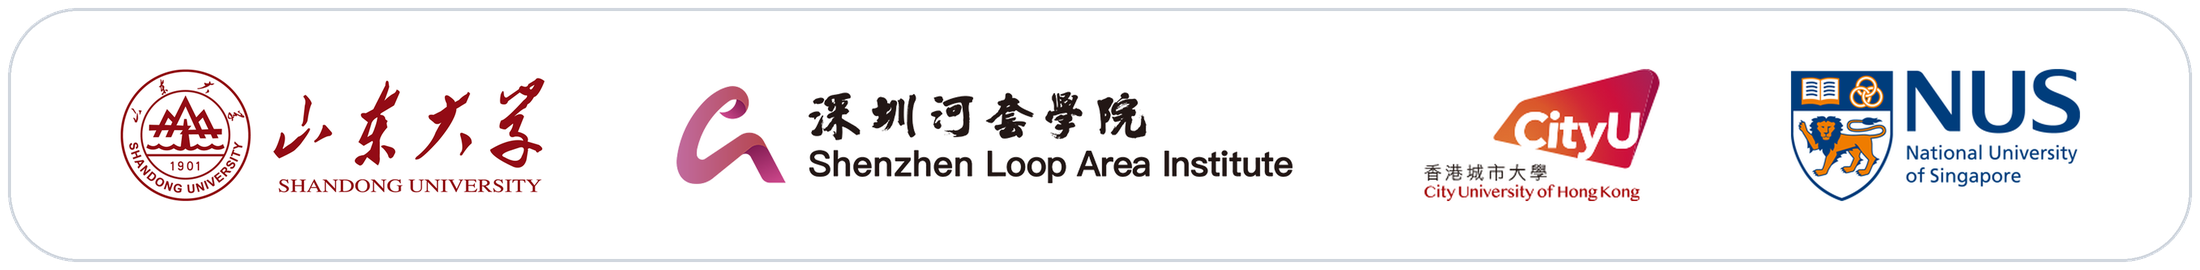
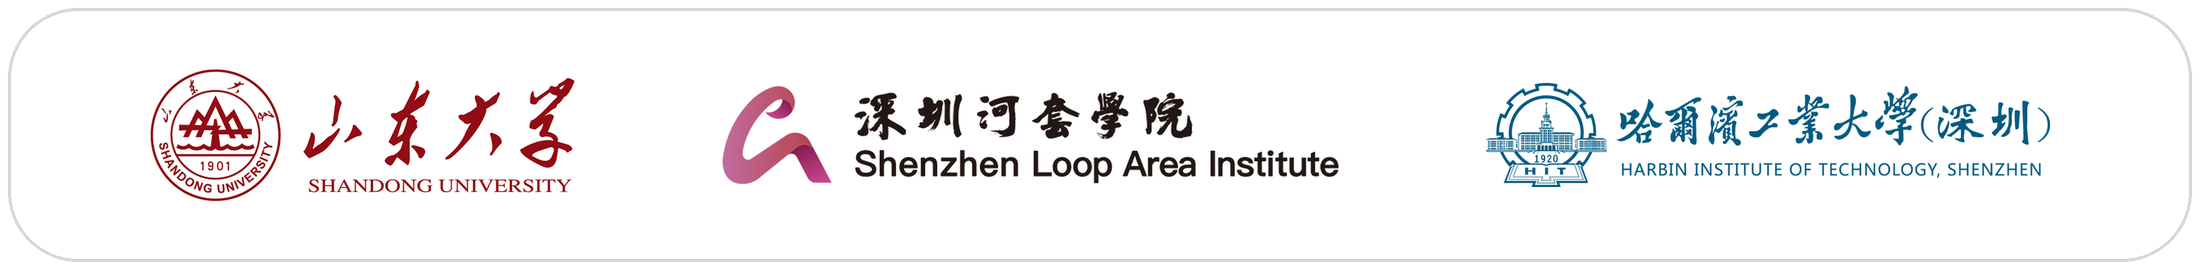
Update the author list and affiliations

diff --git a/README.md b/README.md
@@ -4,17 +4,16 @@
 <div>
 <div>
     Wenhao Li<sup>1,2</sup>,
-    Xusheng Liang<sup>2,3</sup>,
-    Zhongyi Han<sup>1</sup>,
+    Liang Han<sup>3</sup>,
     Yang Shi<sup>1</sup>,
-    Guangyuan Dong<sup>4</sup>,
-    Zheyun Qin<sup>1</sup>,
-    Yilong Yin<sup>1</sup>
+    Zhongyi Han<sup>1</sup>,
+    Yilong Yin<sup>1</sup>,
+    Liqiang Nie<sup>3</sup>
 </div>
 
-<sup>1</sup>Shandong University &nbsp;&middot;&nbsp; <sup>2</sup>Shenzhen Loop Area Institute &nbsp;&middot;&nbsp; <sup>3</sup>City University of Hong Kong &nbsp;&middot;&nbsp; <sup>4</sup>National University of Singapore
+<sup>1</sup>Shandong University &nbsp;&middot;&nbsp; <sup>2</sup>Shenzhen Loop Area Institute &nbsp;&middot;&nbsp; <sup>3</sup>Harbin Institute of Technology (Shenzhen)
 
-<img src='assets/affiliations.png' width='80%' alt='Shandong University, Shenzhen Loop Area Institute, City University of Hong Kong, National University of Singapore'>
+<img src='assets/affiliations.png' width='80%' alt='Shandong University, Shenzhen Loop Area Institute, Harbin Institute of Technology (Shenzhen)'>
 
 [![project page](https://img.shields.io/badge/Project-StereoLift-9cf)](https://peacelwh.github.io/StereoLift/)
 [![dataset](https://img.shields.io/badge/%F0%9F%A4%97%20Dataset-Kitchen--18-yellow)](https://huggingface.co/datasets/Bluexxx/robocasa365_kitchen18)
@@ -242,7 +241,7 @@ If you find this work useful for your research, please kindly cite our paper.
 ```bibtex
 @misc{li2026stereolift,
   title  = {Enhancing Vision-Language-Action Models for Precise Manipulation via Stereo Lifting},
-  author = {Li, Wenhao and Liang, Xusheng and Han, Zhongyi and Shi, Yang and Dong, Guangyuan and Qin, Zheyun and Yin, Yilong},
+  author = {Li, Wenhao and Han, Liang and Shi, Yang and Han, Zhongyi and Yin, Yilong and Nie, Liqiang},
   year   = {2026},
   howpublished = {\url{https://github.com/peacelwh/StereoLift}}
 }

diff --git a/docs/dataset_card_kitchen18.md b/docs/dataset_card_kitchen18.md
@@ -88,7 +88,7 @@ non-commercial research. Please cite RoboCasa365 and, if you use this subset or 
 ```bibtex
 @misc{li2026stereolift,
   title  = {Enhancing Vision-Language-Action Models for Precise Manipulation via Stereo Lifting},
-  author = {Li, Wenhao and Liang, Xusheng and Han, Zhongyi and Shi, Yang and Dong, Guangyuan and Qin, Zheyun and Yin, Yilong},
+  author = {Li, Wenhao and Han, Liang and Shi, Yang and Han, Zhongyi and Yin, Yilong and Nie, Liqiang},
   year   = {2026},
   howpublished = {\url{https://github.com/peacelwh/StereoLift}}
 }
